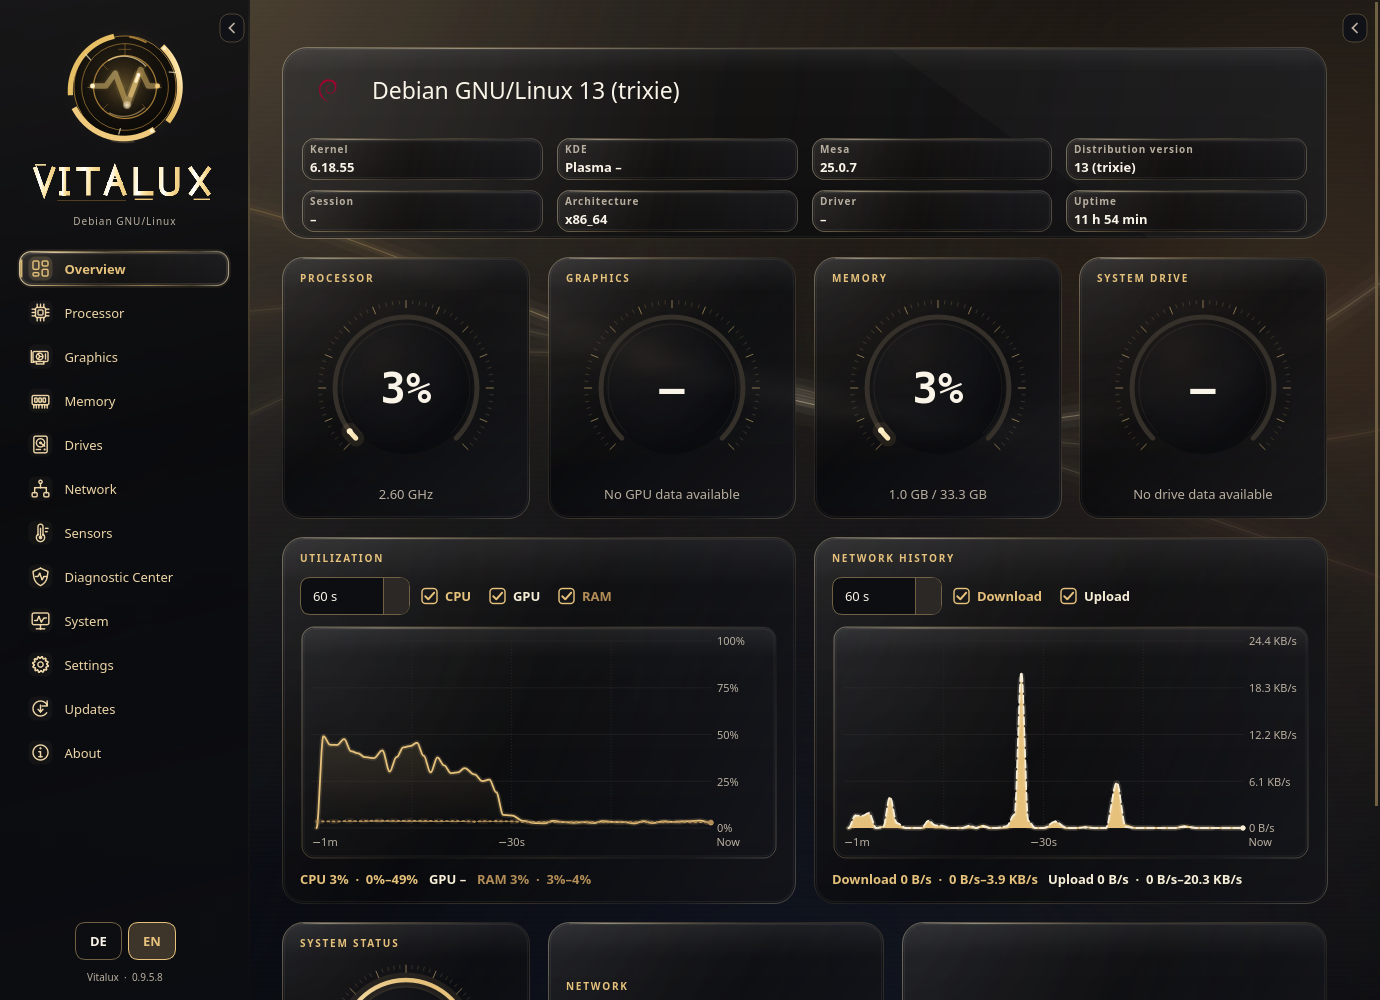
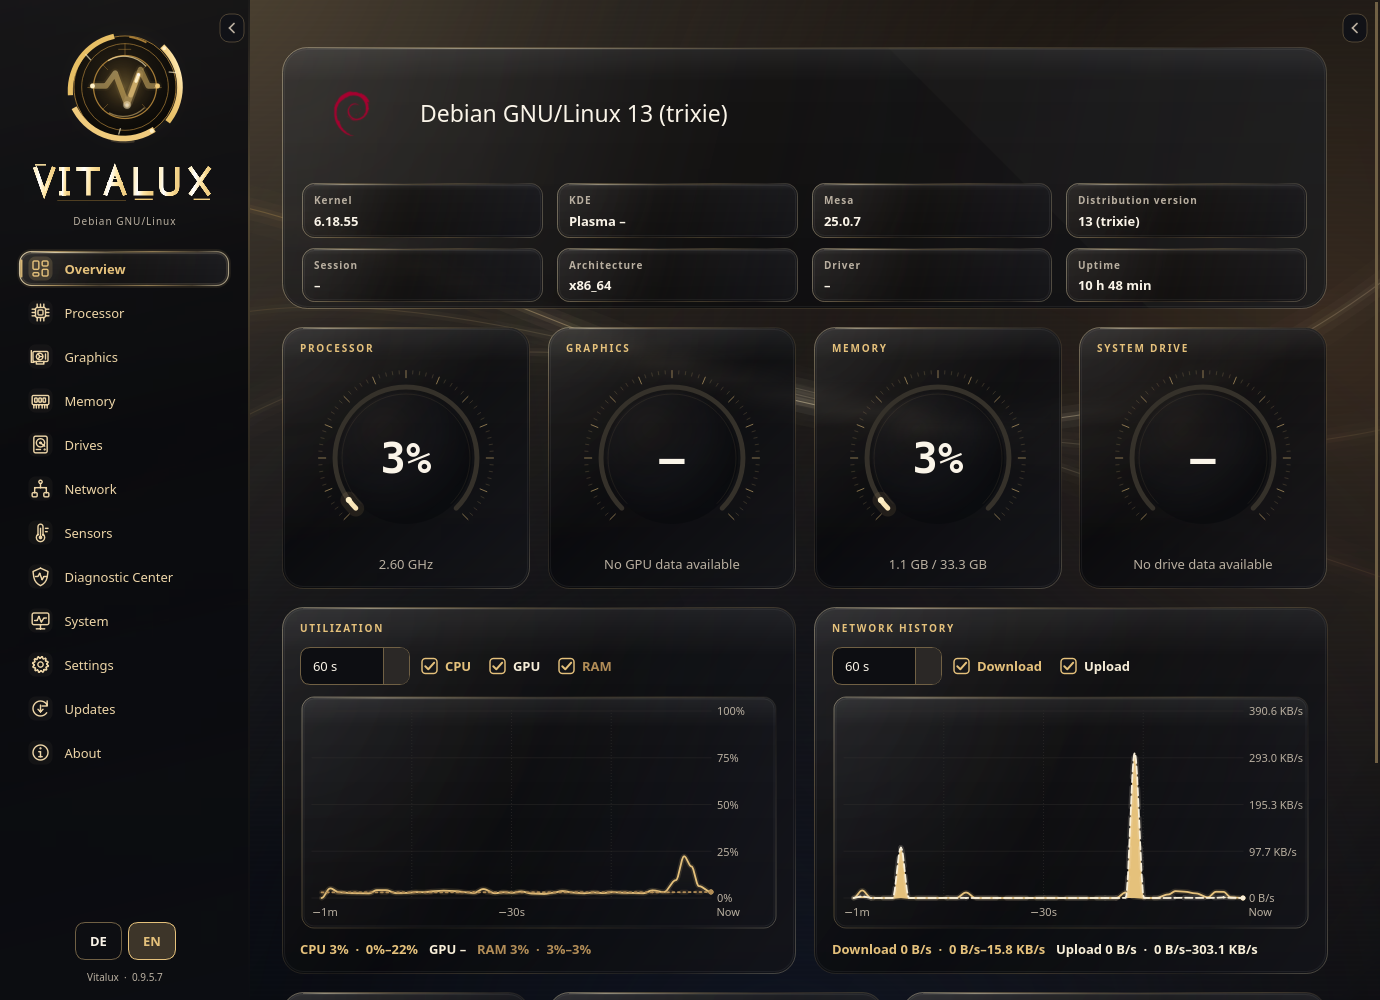
revert compact Overview default after owner stopped the change

diff --git a/vitalux/pages.py b/vitalux/pages.py
@@ -182,8 +182,10 @@ class OverviewPage(Page):
         # bleibt in der Seitenleiste; Systemversionen stehen ausschließlich in
         # den Kacheln direkt unter dem Distro-Kopf.
         head = Card(hero=True)
-        # A compact system header leaves more room for the telemetry below.
-        # Keep all eight system-info chips and the original title typography.
+        # Compact only the *outer whitespace*: the distro icon (96×96),
+        # name typography and the eight system-info chips retain their
+        # original dimensions. The saved 35px exactly match the reduced
+        # single grid row; no child tile needs to be scaled to fit.
         head.layout().setContentsMargins(20, 7, 20, 7)
         head.body.setSpacing(5)
         row = QHBoxLayout()
@@ -192,12 +194,13 @@ class OverviewPage(Page):
         # The distribution logo is an independent visibility option *inside*
         # the hero tile: its name and system-information chips stay intact.
         self.distro_logo_host = QWidget(head)
-        self.distro_logo_host.setFixedSize(48, 48)
+        self.distro_logo_host.setFixedSize(96, 96)
         pic = label()
         pic.setParent(self.distro_logo_host)
-        pic.setGeometry(0, 0, 48, 48)
+        pic.setGeometry(0, 0, 96, 96)
         pic.setAlignment(Qt.AlignCenter)
-        pic.setPixmap(logo.scaled(48, 48, Qt.KeepAspectRatio, Qt.SmoothTransformation))
+        pic.setPixmap(logo)
+        self._distro_picture, self._distro_pixmap = pic, logo
         self.distro_logo_remove = QToolButton(self.distro_logo_host)
         self.distro_logo_remove.setObjectName('tileRemoveHint')
         self.distro_logo_remove.setProperty('distroLogoRemove', True)
@@ -205,21 +208,20 @@ class OverviewPage(Page):
         self.distro_logo_remove.setToolTip(tr('Distributionslogo ausblenden'))
         self.distro_logo_remove.setCursor(Qt.PointingHandCursor)
         self.distro_logo_remove.setFixedSize(25, 25)
-        self.distro_logo_remove.move(22, 1)
+        self.distro_logo_remove.move(70, 1)
         self.distro_logo_remove.raise_()
         row.addWidget(self.distro_logo_host, 0, Qt.AlignVCenter)
         distro_name = label(distro["name"], "heroTitle", wrap=True)
         distro_name.setAlignment(Qt.AlignLeft | Qt.AlignVCenter)
         row.addWidget(distro_name, 1, Qt.AlignVCenter)
-        # The space on the right stays clear of duplicated system details.
+        # Keep the original 96px distro icon and title. The space on the
+        # right remains empty instead of duplicating the chip content.
         head.body.addLayout(row)
 
         # Restored 0.9.3.30 chip sizing: natural text/layout height and
         # standard Qt grid column sizing, without any fixed 80px tiles.
         # Uptime stays in the last small tile; the OS updater is gone.
         self.chips = ChipsGrid(["Kernel", "KDE", "Mesa", "Distributionsversion", "Sitzung", "Architektur", "Treiber", "Laufzeit"], columns=4)
-        for chip in self.chips.chips.values():
-            chip.layout().setContentsMargins(10, 6, 10, 6)
         self.chips.grid.setVerticalSpacing(6)
         head.body.addWidget(self.chips)
         self.hero_card = head
@@ -303,7 +305,20 @@ class OverviewPage(Page):
         self.distro_logo_remove.clicked.connect(self.board.hide_distro_logo)
         self._sync_distro_logo()
         self._position_editor_controls()
+        self.apply_density()
         QTimer.singleShot(0,self.board.refresh_geometry)
+
+    def apply_density(self):
+        compact = settings.get('compact_overview', False)
+        size = 48 if compact else 96
+        self.distro_logo_host.setFixedSize(size, size)
+        self._distro_picture.setGeometry(0, 0, size, size)
+        self._distro_picture.setPixmap(self._distro_pixmap.scaled(
+            size, size, Qt.KeepAspectRatio, Qt.SmoothTransformation))
+        self.distro_logo_remove.move(size-26, 1)
+        for chip in self.chips.chips.values():
+            chip.layout().setContentsMargins(10, 6, 10, 6) if compact else chip.layout().setContentsMargins(14, 10, 14, 10)
+        self.board.refresh_geometry()
 
     def resizeEvent(self, event):
         super().resizeEvent(event)

diff --git a/vitalux/control.py b/vitalux/control.py
@@ -172,14 +172,14 @@ class PreferencesPage(Page):
         'theme': DEFAULT_THEME, 'accent': '#4f8cff', 'ui_sounds': True, 'ui_sound_volume': 70, 'motion': 'smooth',
         'background_style': 'theme_default', 'custom_background_fit': 'cover',
         'render_backend': renderer.SOFTWARE, 'ultra_eco': False,
-        'interval': 1, 'close_to_tray': True, 'alerts_enabled': False,
+        'interval': 1, 'close_to_tray': True, 'alerts_enabled': False, 'compact_overview': False,
         'cpu_temp': 90, 'gpu_temp': 90, 'ram_usage': 90, 'disk_usage': 95,
         'mini_hud_enabled': False, 'mini_hud_layout': 'compact',
         'mini_hud_opacity': 90,
         'mini_hud_metrics': list(DEFAULT_KEYS),
     }
     SECTION_DEFAULTS = {
-        'appearance': ('theme', 'accent', 'ui_sounds', 'ui_sound_volume', 'motion', 'background_style', 'custom_background_fit'),
+        'appearance': ('theme', 'accent', 'ui_sounds', 'ui_sound_volume', 'motion', 'background_style', 'custom_background_fit', 'compact_overview'),
         'hud': ('mini_hud_enabled', 'mini_hud_layout', 'mini_hud_opacity',
                 'mini_hud_metrics'),
         'alerts': ('alerts_enabled', 'cpu_temp', 'gpu_temp', 'ram_usage', 'disk_usage'),
@@ -392,6 +392,10 @@ class PreferencesPage(Page):
         r_motion.addWidget(self.motion_combo)
         r_motion.addStretch(1)
         look.body.addLayout(r_motion)
+        self.compact_overview = QCheckBox('Kompakter Systemkopf auf der Übersicht')
+        self.compact_overview.setChecked(settings.get('compact_overview', False))
+        self.compact_overview.toggled.connect(self.set_compact_overview)
+        look.body.addWidget(self.compact_overview)
         look.body.addWidget(label('Übergänge anpassen: weich, verkürzt oder ohne Animation.', 'muted', wrap=True))
         self.sound_toggle = QCheckBox('Glas-Klang bei Klicks')
         self.sound_toggle.setChecked(settings.get('ui_sounds', True))
@@ -751,6 +755,10 @@ class PreferencesPage(Page):
         if not settings.set_many(changes):
             return
         if section == 'appearance':
+            self._check_without_signal(self.compact_overview, False)
+            pages = getattr(self.window, 'pages', ())
+            if pages and hasattr(pages[0][1], 'apply_density'):
+                pages[0][1].apply_density()
             self._select_without_signal(self.accent_combo, self.DEFAULTS['accent'])
             self._select_without_signal(self.motion_combo, self.DEFAULTS['motion'])
             self._select_without_signal(self.background_combo, self.DEFAULTS['background_style'])
@@ -928,6 +936,13 @@ class PreferencesPage(Page):
     def _set_preference(self, key, value):
         settings.set(key, value)
         self._refresh_restore_button()
+
+    def set_compact_overview(self, enabled):
+        if settings.set('compact_overview', bool(enabled)):
+            pages = getattr(self.window, 'pages', ())
+            if pages and hasattr(pages[0][1], 'apply_density'):
+                pages[0][1].apply_density()
+            self._refresh_restore_button()
 
     def _refresh_restore_button(self):
         values = settings.get_many(self.DEFAULTS)

diff --git a/vitalux/translations_extra.py b/vitalux/translations_extra.py
@@ -4,6 +4,7 @@ EN_MORE = {
     'Die Suche gleitet zu Treffern und schließt fünf Sekunden nach der Auswahl weich. Beim Öffnen der erweiterten Einstellungen scrollt die Seite mit; dort liegen Grafik-Renderer und Wartung.': 'Search glides to matches and closes softly five seconds after selection. The page follows Advanced settings as it opens; graphics renderers and Maintenance are inside.',
     'Zurücksetzen-Buttons blenden weich ein und aus. Ganz unten setzt du alle Standardwerte wieder her und startest Vitalux neu; einzelne Bereiche benötigen keinen Neustart. Das Logo zeigt einen sanften Herzschlagimpuls.': 'Reset buttons fade in and out. Restore all defaults at the very bottom to restart Vitalux; individual sections do not require a restart. The logo traces a gentle heartbeat impulse.',
 
+    'Kompakter Systemkopf auf der Übersicht': 'Compact system header on Overview',
     'Ein Vorgang läuft noch. Bitte danach erneut zurücksetzen.': 'An operation is still running. Reset settings after it finishes.',
     'Für das Update ist nicht genügend freier Speicherplatz vorhanden.': 'There is not enough free disk space for the update.',
     'Der Update-Download wurde unterbrochen. Bitte erneut versuchen.': 'The update download was interrupted. Please try again.',
@@ -523,7 +524,7 @@ EN_MORE.update({
     "Die Werte werden regelmäßig aktualisiert; nicht unterstützte Sensoren bleiben leer.": "Values update regularly; unsupported sensors remain empty.",
     "Mit den Schaltflächen unten gehst du Schritt für Schritt durch die Anleitung.": "Use the buttons below to go through the guide step by step.",
     "Die Live-Übersicht": "The live overview",
-    "Der kompakte Systemkopf lässt auf der Startseite mehr Platz für Messwerte und Diagramme.": "The compact system header leaves more room for measurements and charts on the home screen.",
+    "Auf der Startseite sind die wichtigsten Informationen als Kacheln zusammengefasst.": "The home screen shows the most important information in tiles.",
     "Du siehst unter anderem Prozessor, Grafik, RAM und Systemlaufwerk.": "You can see the CPU, GPU, RAM and system drive, among other things.",
     "Diagramme zeigen, wie sich die Auslastung im Zeitverlauf verändert.": "Charts show how resource usage changes over time.",
     "Unter „Layout bearbeiten“ verschiebst du Kacheln; freie Flächen füllen sich automatisch, der Kachelabstand bleibt gleich.": "Use Edit layout to move tiles; free space is filled automatically while tile spacing stays unchanged.",

diff --git a/vitalux/dashboard_model.py b/vitalux/dashboard_model.py
@@ -8,16 +8,18 @@ TITLES = {
     'health':'Systemzustand', 'network':'Netzwerk', 'drives':'Laufwerke',
 }
 ORDER = tuple(TITLES)
-# The compact system header keeps the eight info chips in one parent tile.
-# Native widths, telemetry-card sizes and the 14px visual gaps stay unchanged.
+# 12-column native widths and all non-hero sizes stay unchanged. The
+# hero is one row shorter; its empty padding is compressed instead of its
+# internal logo, typography or information-chip dimensions. The chips are
+# always a single indivisible parent tile.
 DEFAULT = {
-    'hero': (0,0,12,6),
-    'cpu': (0,6,3,8), 'gpu': (3,6,3,8),
-    'ram': (6,6,3,8), 'disk': (9,6,3,8),
-    'graph_load': (0,14,6,11), 'graph_net': (6,14,6,11),
-    'health': (0,25,3,8), 'network': (3,25,4,8), 'drives': (7,25,5,8),
+    'hero': (0,0,12,8),
+    'cpu': (0,8,3,8), 'gpu': (3,8,3,8),
+    'ram': (6,8,3,8), 'disk': (9,8,3,8),
+    'graph_load': (0,16,6,11), 'graph_net': (6,16,6,11),
+    'health': (0,27,3,8), 'network': (3,27,4,8), 'drives': (7,27,5,8),
 }
-MINSPAN = {'hero': (6,6), 'cpu': (3,6), 'gpu': (3,6), 'ram': (3,6),
+MINSPAN = {'hero': (6,8), 'cpu': (3,6), 'gpu': (3,6), 'ram': (3,6),
            'disk': (3,6), 'graph_load': (4,7), 'graph_net': (4,7),
            'health': (3,6), 'network': (4,5), 'drives': (4,5)}
 PITCH = 35
@@ -93,7 +95,7 @@ def normalize_order(saved=None, legacy=None):
     return sorted(ORDER, key=lambda key: (source[key][1],source[key][0],ORDER.index(key)))
 
 
-def grid_pack(order, hidden=(), columns=12):
+def grid_pack(order, hidden=(), columns=12, hero_height=None):
     """Repack visible tiles into gap-free rows, preserving 14px visual gaps."""
     cols = int(columns)
     if cols not in (3, 6, 12):
@@ -104,6 +106,8 @@ def grid_pack(order, hidden=(), columns=12):
         if key not in DEFAULT or key in hidden:
             continue
         native_w, native_h = DEFAULT[key][2:]
+        if key == 'hero' and hero_height is not None:
+            native_h = max(6, int(hero_height))
         width = cols if key == 'hero' else min(
             cols, max(1, round(native_w * cols / 12)))
         if row and used + width > cols:

diff --git a/tests/test_release_0957_interactions.py b/tests/test_release_0957_interactions.py
@@ -44,8 +44,6 @@ def run():
             settings.set('theme', 'glass')
             assert eco.theme_name() == 'glass', 'An update replaced a saved theme'
             settings.set('theme', DEFAULT_THEME)
-            # An old disabled preference must not undo the compact standard.
-            settings.set('compact_overview', False)
             theme.set_mode(DEFAULT_THEME)
             app.setStyleSheet(theme.stylesheet())
             with patch.object(Sampler, 'start'):
@@ -97,11 +95,9 @@ def run():
             QTest.qWait(450)
             assert cpu_scroll.verticalScrollBar().value() == 0
             overview = window.pages[0][1]
-            assert overview.distro_logo_host.width() == 48
-            assert overview.board._render_positions()['hero'][3] == 6
-            assert not hasattr(page, 'compact_overview')
-            page.reset_category('appearance')
-            assert overview.board._render_positions()['hero'][3] == 6
+            tall = overview.board._render_positions()['hero'][3]
+            page.compact_overview.click()
+            assert overview.board._render_positions()['hero'][3] < tall
 
             # The heartbeat changes locally while the authored outer angle stays fixed.
             pulse = window.pulse_core

diff --git a/tests/test_preferences_changelog.py b/tests/test_preferences_changelog.py
@@ -309,11 +309,10 @@ def check_preferences(app):
 def check_changelog(app):
     versions = changelog.entries()
     assert versions and versions[0][0] == __version__, (versions, __version__)
-    assert changelog.version_notes(__version__) == versions[0][1]
+    assert len(changelog.version_notes(__version__)) >= 3
     german = changelog.version_notes(__version__, lang="de")
     english = changelog.version_notes(__version__, lang="en")
     assert german and english and german != english
-    assert all(note.strip() for note in german + english)
 
     manager = UpdateManager()
     page = UpdatePage(manager)

diff --git a/vitalux/guide.py b/vitalux/guide.py
@@ -27,7 +27,7 @@ SLIDES = [
     ),
     (
         "Die Live-Übersicht",
-        "Der kompakte Systemkopf lässt auf der Startseite mehr Platz für Messwerte und Diagramme.",
+        "Auf der Startseite sind die wichtigsten Informationen als Kacheln zusammengefasst.",
         "Du siehst unter anderem Prozessor, Grafik, RAM, Systemlaufwerk und den Systemzustand.",
         "Diagramme zeigen, wie sich die Auslastung im Zeitverlauf verändert.",
         "Unter „Layout bearbeiten“ verschiebst du Kacheln; freie Flächen füllen sich automatisch, der Kachelabstand bleibt gleich.",

diff --git a/vitalux/dashboard.py b/vitalux/dashboard.py
@@ -163,7 +163,8 @@ class DashboardBoard(QWidget):
         return 12 if self.width()>=740 else 6 if self.width()>=475 else 3
 
     def _render_positions(self,order=None):
-        return grid_pack(self.order if order is None else order,self.hidden,self._cols())
+        return grid_pack(self.order if order is None else order,self.hidden,self._cols(),
+                         hero_height=6 if settings.get('compact_overview', False) else None)
 
     def _frame(self,rect):
         x,y,w,h=rect

diff --git a/vitalux/__init__.py b/vitalux/__init__.py
@@ -1,4 +1,4 @@
-__version__ = "0.9.5.8"
+__version__ = "0.9.5.7"
 APP_NAME = "Vitalux"
 APP_ID = "vitalux"
 DEFAULT_THEME = "obsidian_gold"

diff --git a/README.md b/README.md
@@ -32,27 +32,27 @@ CPU rendering is the default. Optional GPU renderers require suitable drivers an
 
 ### AppImage
 
-Download the `.AppImage` from [the latest release](https://github.com/PAAAUUULLOOOH/Vitalux/releases/latest). For v0.9.5.8:
+Download the `.AppImage` from [the latest release](https://github.com/PAAAUUULLOOOH/Vitalux/releases/latest). For v0.9.5.7:
 
 ```bash
-chmod +x Vitalux-v0.9.5.8-x86_64.AppImage
-./Vitalux-v0.9.5.8-x86_64.AppImage
+chmod +x Vitalux-v0.9.5.7-x86_64.AppImage
+./Vitalux-v0.9.5.7-x86_64.AppImage
 ```
 
 The first-run dialog offers installation in your user account, including an application-menu entry. Administrator rights are not required. You can also choose **Run once**, or run explicitly without integration:
 
 ```bash
-./Vitalux-v0.9.5.8-x86_64.AppImage --portable
+./Vitalux-v0.9.5.7-x86_64.AppImage --portable
 ```
 
 To add or remove desktop integration later, use `--install` or `--uninstall`. Uninstalling keeps personal preferences.
 
 ### Portable ZIP or source ZIP
 
-Download **`Vitalux-v0.9.5.8-linux-x86_64.zip`**, extract the entire archive into its own writable folder, and run:
+Download **`Vitalux-v0.9.5.7-linux-x86_64.zip`**, extract the entire archive into its own writable folder, and run:
 
 ```bash
-cd Vitalux-v0.9.5.8
+cd Vitalux-v0.9.5.7
 bash run.sh
 ```
 
@@ -64,7 +64,7 @@ The `Update-von-...zip` download is a manual overlay for the immediately precedi
 
 **Obsidian Gold is the default appearance.** Open **Settings → Appearance** to select a theme. Existing installations retain their saved choice. Preview tiles grow gently on hover. **Obsidian Gold, Champagne Glass, Black Glass Gold and Aurora Gold** use coordinated fixed palettes and backgrounds; their grey fields are disabled. Holographic also has a fixed background. Compatible themes retain your personal accent colors and images.
 
-A compact glass swatch previews the current accent. Overview always uses a compact system header, leaving more room for measurements and charts without an extra setting. The original logo traces a soft heartbeat inside its rotating outer bands.
+A compact glass swatch previews the current accent. **Compact system header on Overview** gives charts more space. The original logo traces a soft heartbeat inside its rotating outer bands.
 
 The settings magnifier predicts matches and glides to their controls. After selecting a result, the search remains visible for five seconds, then closes softly. **Advanced settings** expands for graphics renderers and Maintenance, with the page following its reveal; relevant searches open it automatically. The full **Restore defaults** action sits below it, at the very bottom. Reset buttons appear and disappear smoothly. A full reset restarts Vitalux; individual section resets apply in place. Reopening a sidebar category starts at the top.
 
@@ -77,7 +77,7 @@ Vitalux checks official GitHub releases at startup and approximately every six h
 To check a manually downloaded package, download its release's `SHA256SUMS.txt` file into the same directory and run:
 
 ```bash
-sha256sum --ignore-missing -c Vitalux-v0.9.5.8-SHA256SUMS.txt
+sha256sum --ignore-missing -c Vitalux-v0.9.5.7-SHA256SUMS.txt
 ```
 
 A matching checksum confirms consistency with that manifest; it is not an independent digital signature.
@@ -109,7 +109,7 @@ VITALUX_RENDERER=software bash run.sh
 For an AppImage that cannot mount through FUSE, extract its payload instead:
 
 ```bash
-./Vitalux-v0.9.5.8-x86_64.AppImage --appimage-extract
+./Vitalux-v0.9.5.7-x86_64.AppImage --appimage-extract
 VITALUX_RENDERER=software bash squashfs-root/AppRun --portable
 ```
 

diff --git a/USER-GUIDE.md b/USER-GUIDE.md
@@ -16,7 +16,7 @@ Use **Edit layout** on Overview to arrange cards. Drives loads SMART data asynch
 
 Obsidian Gold, Champagne Glass, Black Glass Gold and Aurora Gold use fixed palettes and backgrounds. Their grey fields are disabled and cannot be opened. Holographic also has a fixed HUD background. Personal accent and background selections remain saved for compatible themes.
 
-The accent selector has a compact glass color swatch. Overview always uses a compact system header, with a smaller distribution logo and tighter spacing to leave more room for measurements and charts. No separate switch is needed. Theme previews gently enlarge on hover without moving surrounding tiles. The original wordmark has a slow, clearly visible satin reflection; outer logo bands rotate slowly around a softly traced heartbeat waveform. **Animations** provides smooth, reduced and off profiles. **Ultra Eco** uses a simple skin, CPU rendering and a ten-second sampling interval, preserving the previous appearance settings for later.
+The accent selector has a compact glass color swatch. Enable **Compact system header on Overview** to leave more room for charts. Theme previews gently enlarge on hover without moving surrounding tiles. The original wordmark has a slow, clearly visible satin reflection; outer logo bands rotate slowly around a softly traced heartbeat waveform. **Animations** provides smooth, reduced and off profiles. **Ultra Eco** uses a simple skin, CPU rendering and a ten-second sampling interval, preserving the previous appearance settings for later.
 
 ## Search and sound
 

diff --git a/NEXT-RELEASE.md b/NEXT-RELEASE.md
@@ -1,17 +1,4 @@
-# Release plan — v0.9.5.8
-
-## v0.9.5.8 follow-up
-
-Status: implemented for v0.9.5.8.
-
-The owner requested the compact Overview header as the permanent standard on
-2026-10-20. Remove the optional switch and its preference logic. Existing saved
-values must not restore the larger header. Keep the distribution-logo editor,
-all eight system-information chips, telemetry-card sizes and custom tile order.
-Update the English README and guide, native DE/EN tour and user-facing changelog.
-This supersedes the optional-header requirement in the completed plan below.
-
-## Completed v0.9.5.7 plan
+# Release plan — v0.9.5.7
 
 Agreed with the owner on 2026-10-20. Baseline: v0.9.5.6.
 Target: v0.9.5.7. Status: implemented in v0.9.5.7.
